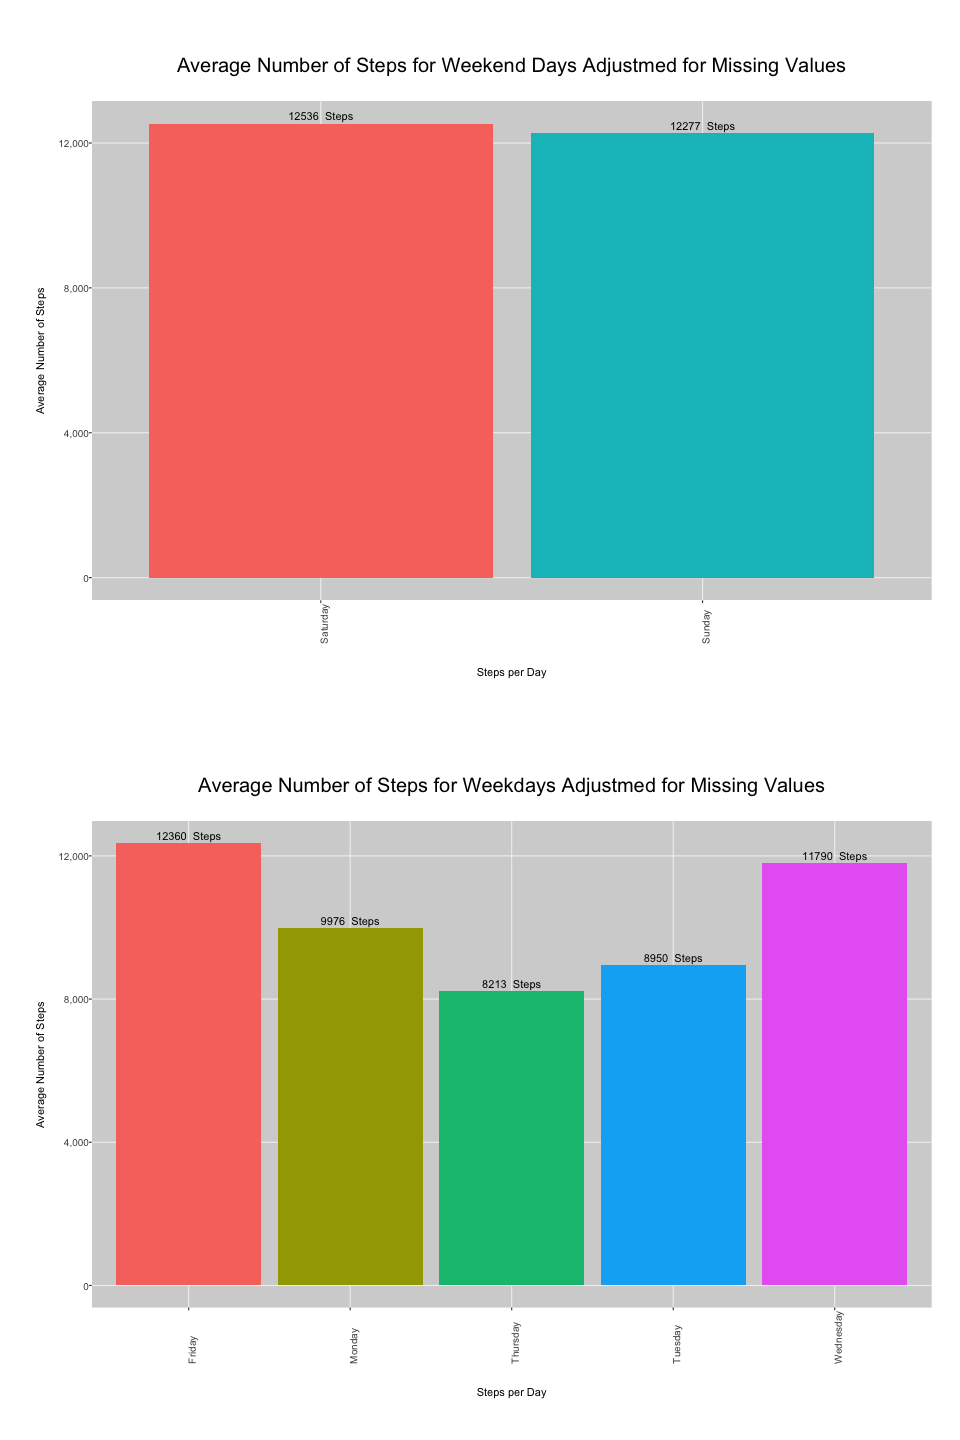
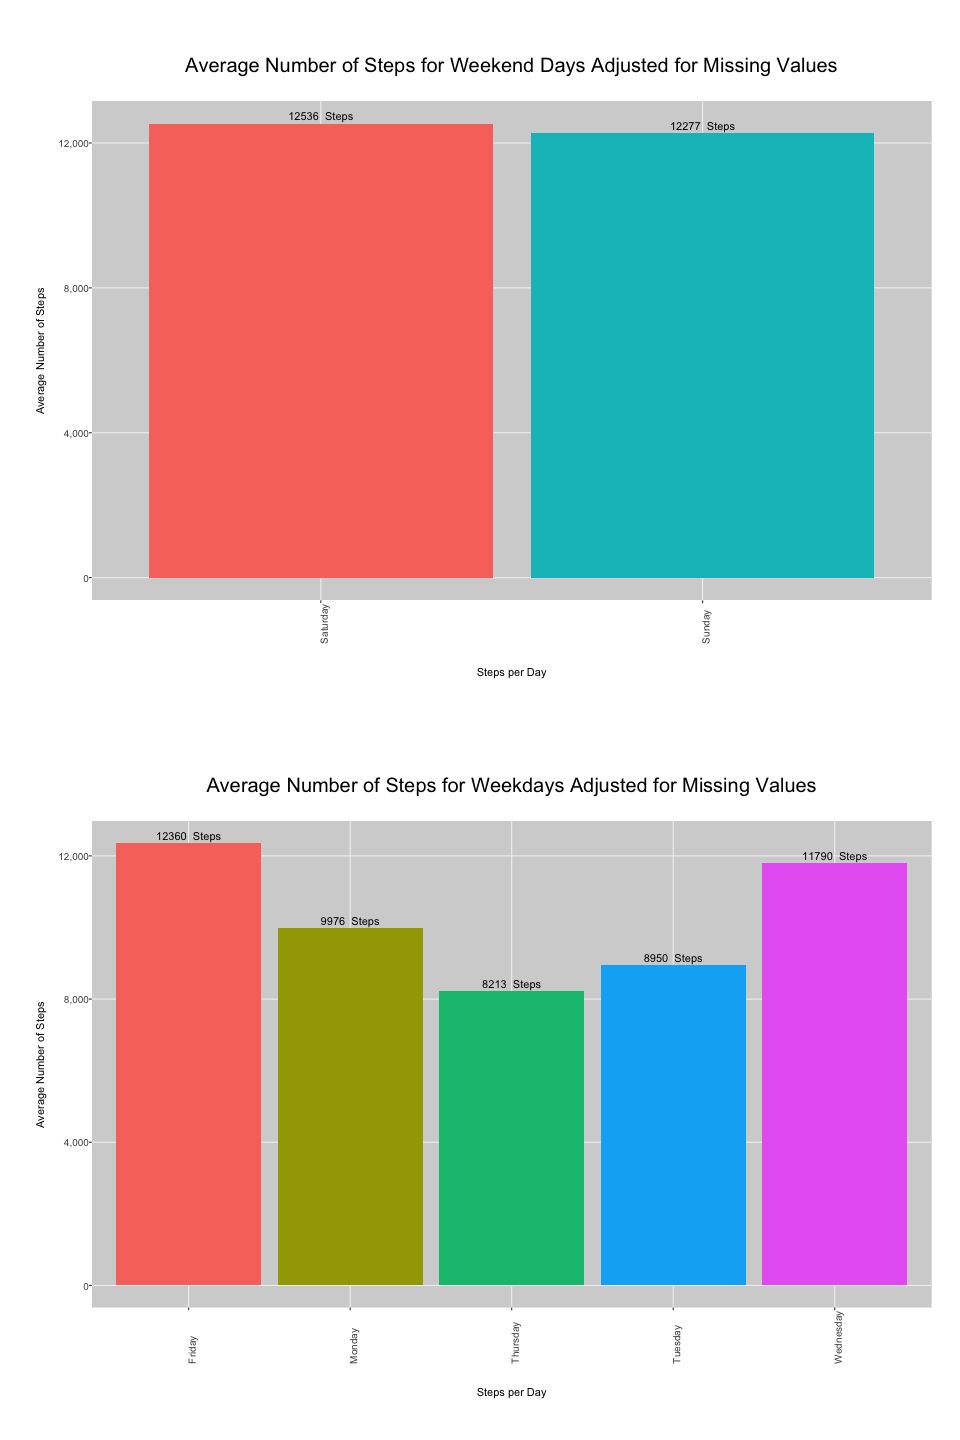
General cleanup and polishing of content

Changed region(s): [[0.1875, 0.0312, 0.875, 0.0625], [0.2188, 0.5312, 0.8438, 0.5625]]

diff --git a/README.md b/README.md
@@ -339,6 +339,7 @@ Plotting the new timeseries the total number of steps per day a lot more data em
 Using the adjusted data set and adding the weekday and plotting one chart per Saturday and Sundday and one for the days Monday through Friday.
 
 Note 1: See previous charts for the daily weekday vs weekend activity pattern difference.
+
 Note 2: There are two days with 0 for all measurment intervals 2012-10-02 and 2012-11-15. These values have been left unadjusted for assuming that the step tracker was turned on but left at home.
 
     
@@ -368,7 +369,7 @@ Note 2: There are two days with 0 for all measurment intervals 2012-10-02 and 20
         theme(axis.text.x = element_text(size=10,margin = margin(0,0,20,0))) +
         ylab("Average Number of Steps") + 
         theme(axis.text.y = element_text(size=10,margin = margin(0,0,0,10))) +
-        ggtitle("Average Number of Steps for Weekend Days Adjustmed for Missing Values") +
+        ggtitle("Average Number of Steps for Weekend Days Adjusted for Missing Values") +
         theme(plot.title = element_text(size = 20,margin = margin(0,0,30,0)))
     
     g <- ggplot(stepsOrigWKDays, aes(x=Day, y=Steps))
@@ -386,7 +387,7 @@ Note 2: There are two days with 0 for all measurment intervals 2012-10-02 and 20
         theme(axis.text.x = element_text(size=10,margin = margin(0,0,20,0))) +
         ylab("Average Number of Steps") + 
         theme(axis.text.y = element_text(size=10,margin = margin(0,0,0,10))) +
-        ggtitle("Average Number of Steps for Weekdays Adjustmed for Missing Values") +
+        ggtitle("Average Number of Steps for Weekdays Adjusted for Missing Values") +
         theme(plot.title = element_text(size = 20,margin = margin(0,0,30,0)))
     
     grid.arrange(p1,p2, nrow = 2, ncol = 1)
